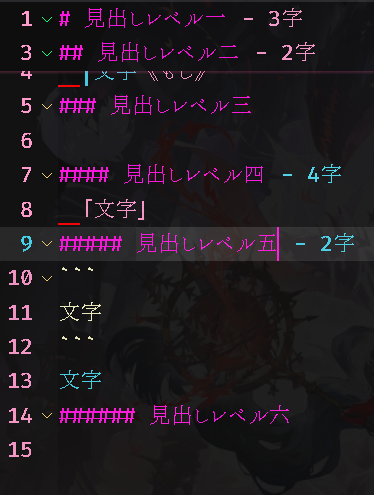
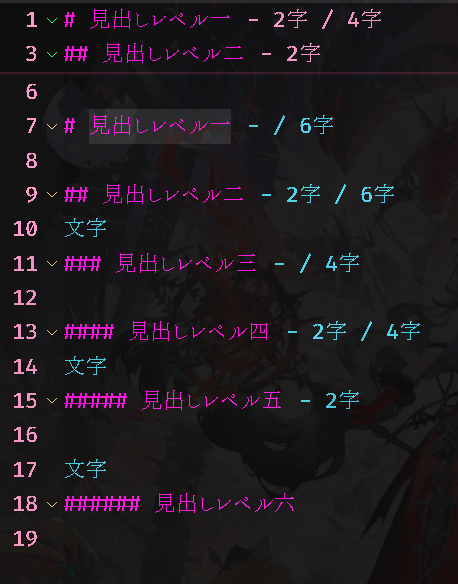
2.2.5-2

diff --git a/src/headline.js b/src/headline.js
@@ -11,48 +11,6 @@ function refreshHeadingCounts(ed, cfg) {
   updateHeadingCountDecorations(ed, cfg);
 }
 
-function updateHeadingCountDecorations(ed, cfg) {
-  if (!ed) return;
-  const c = cfg();
-  const lang = (ed.document.languageId || "").toLowerCase();
-  if (!/^(plaintext|novel|markdown)/.test(lang)) return;
-  if (!c.headingFoldEnabled) {
-    // 既存の見出し機能がOFFなら表示もしない方針
-    ed.setDecorations(countDeco, []);
-    return;
-  }
-  if (c.headingsShowBodyCounts === false) {
-    // 任意：設定でON/OFF
-    ed.setDecorations(countDeco, []);
-    return;
-  }
-
-  const show = c.headingsShowBodyCounts !== false;
-  if (!show) {
-    ed.setDecorations(countDeco, []);
-    return;
-  }
-
-  const { items } = getHeadingCharMetricsCached(ed.document, c);
-  if (!items.length) {
-    ed.setDecorations(countDeco, []);
-    return;
-  }
-
-  // 見出し行末に “（N字）”
-  const decorations = items.map(({ line, count }) => {
-    const endCh = ed.document.lineAt(line).text.length;
-    const pos = new vscode.Position(line, endCh);
-    return {
-      range: new vscode.Range(pos, pos),
-      renderOptions: {
-        after: { contentText: `（${count.toLocaleString("ja-JP")}字）` },
-      },
-    };
-  });
-  ed.setDecorations(countDeco, decorations);
-}
-
 // ドキュメントごとの折りたたみ状態を保持
 const foldToggledByDoc = new Map(); // key: uriString, value: boolean（true=折りたたみ中）
 const foldDocVersionAtFold = new Map(); // key: uriString, value: document.version
@@ -353,49 +311,47 @@ function registerHeadlineSupport(
 }
 
 function updateHeadingCountDecorations(ed, cfg) {
-  if (!ed) return;
+  // ...前略（言語・設定チェックは現行のまま）...
   const c = cfg();
-  const lang = (ed.document.languageId || "").toLowerCase();
-  if (!/^(plaintext|novel|markdown)/.test(lang)) return;
-  if (!c.headingFoldEnabled) {
-    // 既存の見出し機能がOFFなら表示もしない方針
-    ed.setDecorations(countDeco, []);
-    return;
-  }
-  if (c.headingsShowBodyCounts === false) {
-    // 任意：設定でON/OFF
-    ed.setDecorations(countDeco, []);
-    return;
-  }
-
-  const show =
-    c.headingsShowBodyCounts === undefined ? true : !!c.headingsShowBodyCounts;
-  if (!show) {
-    ed.setDecorations(countDeco, []);
-    return;
-  }
-
   const { items } = getHeadingCharMetricsCached(ed.document, c);
   if (!items.length) {
     ed.setDecorations(countDeco, []);
     return;
   }
 
-  // 見出し行末に “（N字）”
   const decorations = items
-    .filter(({ count }) => count > 0)
-    .map(({ line, count }) => {
+    .map(({ line, count, childSum }) => {
+      // 表示テキストの構築
+      const own = count;
+      const sub = count + childSum;
+
+      let text = "- ";
+      const ownShow = own > 0;
+      const subShow = sub > 0 && sub !== own;
+
+      if (!ownShow && !subShow) {
+        // 双方非表示 → この見出しは装飾を付けない
+        return null;
+      }
+      if (ownShow) {
+        text += `${own.toLocaleString("ja-JP")}字`;
+      }
+      if (subShow) {
+        // own が表示されていれば " / □字"、なければ "/ □字"
+        text += `${ownShow ? " / " : "/ "}${sub.toLocaleString("ja-JP")}字`;
+      }
+
       const endCh = ed.document.lineAt(line).text.length;
       const pos = new vscode.Position(line, endCh);
       return {
         range: new vscode.Range(pos, pos),
         renderOptions: {
-          after: {
-            contentText: `- ${count.toLocaleString("ja-JP")}字`,
-          },
+          after: { contentText: text },
         },
       };
-    });
+    })
+    .filter(Boolean);
+
   ed.setDecorations(countDeco, decorations);
 }
 

diff --git a/src/headline_symbols.js b/src/headline_symbols.js
@@ -93,8 +93,14 @@ class HeadingSymbolProvider {
 
 /**
  * 見出しの「本文」＝次に現れる任意レベルの見出し直前まで
- * 各見出し本文の文字数と合計を返す
- * @returns {{ items: Array<{ line:number, level:number, title:string, range:vscode.Range, count:number }>, total:number }}
+ * 各見出し本文の文字数と【配下見出し群の合算】、総計を返す
+ * @returns {{
+ *   items: Array<{
+ *     line:number, level:number, title:string,
+ *     range:vscode.Range, count:number, childSum:number
+ *   }>,
+ *   total:number
+ * }}
  */
 function computeHeadingCharMetricsAnyLevel(document, c) {
   const items = [];
@@ -109,10 +115,9 @@ function computeHeadingCharMetricsAnyLevel(document, c) {
   }
   if (heads.length === 0) return { items: [], total: 0 };
 
+  // まず各見出しの「自分の本文 count」を計算
   for (let i = 0; i < heads.length; i++) {
     const { line: startLine, level, text } = heads[i];
-
-    // ★どのレベルの見出しでも区切る
     let endLine = max - 1;
     for (let j = i + 1; j < heads.length; j++) {
       endLine = heads[j].line - 1;
@@ -120,7 +125,6 @@ function computeHeadingCharMetricsAnyLevel(document, c) {
     }
     if (i === heads.length - 1) endLine = max - 1;
 
-    // 本文：見出し行“翌行”〜endLine
     const bodyStart = Math.min(startLine + 1, endLine);
     const range = new vscode.Range(
       bodyStart,
@@ -130,9 +134,35 @@ function computeHeadingCharMetricsAnyLevel(document, c) {
     );
     const bodyText = document.getText(range);
     const count = countCharsForDisplay(bodyText, c);
-
     const title = text.replace(/^#+\s*/, "").trim() || `Heading L${level}`;
-    items.push({ line: startLine, level, title, range, count });
+
+    items.push({ line: startLine, level, title, range, count, childSum: 0 });
+  }
+
+  // 次に「配下見出し群の合算 childSum」を後ろから積み上げ
+  // スタックで親子を形成しながら、子を親に加算していく
+  const stack = []; // 要素: { idx, level }
+  for (let i = 0; i < items.length; i++) {
+    const lv = items[i].level;
+    while (stack.length > 0 && stack[stack.length - 1].level >= lv) {
+      // 直前の同階層以上は閉じる（親確定）
+      const child = stack.pop();
+      // pop された child は既に childSum が完成しているはずなので、
+      // 親（いまのスタック末尾）に「child の自前 count + childSum」を加算
+      if (stack.length > 0) {
+        const parentIdx = stack[stack.length - 1].idx;
+        items[parentIdx].childSum +=
+          items[child.idx].count + items[child.idx].childSum;
+      }
+    }
+    stack.push({ idx: i, level: lv });
+  }
+  // スタックに残った分も同様に親へ畳み込む
+  while (stack.length > 1) {
+    const child = stack.pop();
+    const parentIdx = stack[stack.length - 1].idx;
+    items[parentIdx].childSum +=
+      items[child.idx].count + items[child.idx].childSum;
   }
 
   const total = items.reduce((a, b) => a + b.count, 0);

diff --git a/README.md b/README.md
@@ -168,10 +168,22 @@ workspace/
   - ```改行```で囲まれた範囲を「コメント」として扱い、**手動で折りたたみ可能**。
   - 既定では文字色が `#f0f0c0` に設定され、他の品詞ハイライトから除外されます。
   - 文字数カウント／ページ行計算からは除外されます。  
-- **各見出しの末尾に『- 〇字』を表示（v2.2.5）**
-  - 次の見出し（レベル不問）までの文字数。
-  - 0字の場合は非表示。
-  - ON/OFF設定可能。
+- **各見出しの末尾に『- 〇字 / □字』を表示（v2.2.5）**
+  - 〇字 … 自身の本文（次の見出し直前まで）の文字数。
+  - □字 … 自身および配下（子・孫など）の見出し群の本文文字数を合算。
+  - 〇・□がそれぞれ 0 の場合は非表示。
+  - 〇＝□ の場合（下位見出しなし）は「/ □字」を省略。
+  - `.txt` / `.md` / `Novel` に対応。
+  - 設定 `posNote.headings.showBodyCounts` で ON/OFF 可能（既定値: ON）。
+  - 表示例：
+
+    ```txt
+    # 見出しレベル一    - 2字 / 4字
+    文字
+    ## 見出しレベル二   - 2字
+    文字
+    ### 見出しレベル三
+    ```
 
 ### 入力支援 {#bracket}
 

diff --git a/CHANGELOG.md b/CHANGELOG.md
@@ -2,12 +2,19 @@
 
 All notable changes to this extension are documented here.
 
-## [2.2.5]
+## [2.2.5] - 2025/10/13
 
 ### 追加
 
-- 「#」による見出し行に、次の見出しまでの文字数を表示。（計算方法は総文字数計算と同じ。）
-  - 表示オプション付き（ON/OFF）。
+- **見出しごとの文字数表示を強化**
+  - 見出し行の末尾に「- 〇字 / □字」を表示。
+    - **〇字**：当該見出しの本文（次の任意レベルの見出し直前まで）の文字数。
+    - **□字**：当該見出しおよび配下の全見出し群（子孫すべて）の本文文字数合計。
+  - 〇字・□字がそれぞれ 0 の場合は非表示。
+  - 〇＝□ の場合（下位見出しを持たない場合）は「/ □字」を省略。
+  - `.txt` / `.md` / `Novel` すべてに対応。
+  - 設定 `posNote.headings.showBodyCounts` により ON/OFF 切り替え可能（デフォルト: ON）。
+  - 計算方法はステータスバーの総文字数と同一。
 
 ## [2.2.4] - 2025/10/11
 
